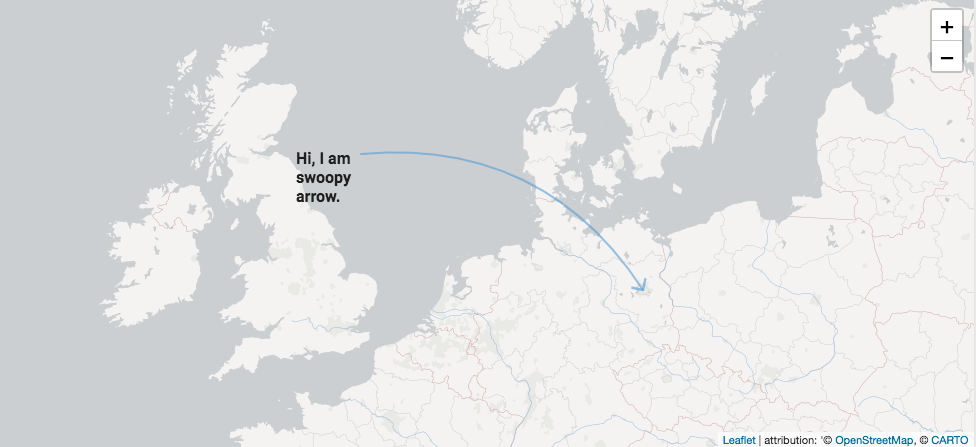
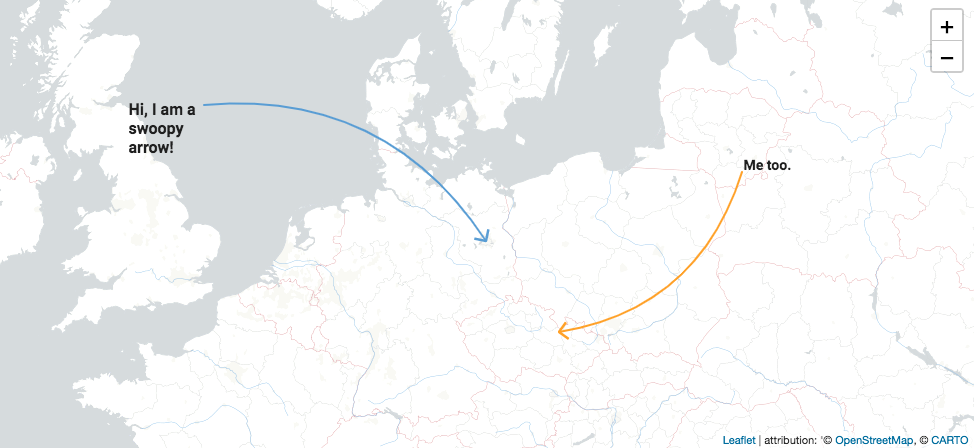
docs(example): add second swoopy

diff --git a/docs/index.html b/docs/index.html
@@ -171,6 +171,10 @@
     box-shadow: 0 2px 12px 2px rgba(0, 0, 0, .15);
   }
 
+  .leaflet-tile-container img {
+    filter: contrast(1.15);
+  }
+
   .swoopy-arrow {
     font-family: 'Roboto', sans-serif;
     font-weight: 700;
@@ -355,7 +359,7 @@ const swoopy = L.swoopyArrow([53.52, 13.4], [53.525, 14.41], {
     }).addTo(map);
 
     new L.SwoopyArrow([56, 1], [52.52, 13.4], {
-      text: 'Hi, I am swoopy arrow.',
+      text: 'Hi, I am a swoopy arrow!',
       fontSize: 16,
       color: '#64A7D9',
       textClassName: 'swoopy-arrow',
@@ -363,10 +367,25 @@ const swoopy = L.swoopyArrow([53.52, 13.4], [53.525, 14.41], {
       minZoom: 2,
       maxZoom: 10,
       factor: .6,
-      iconAnchor: [65, 5],
-      iconSize: [70, 16],
+      iconAnchor: [75, 5],
+      iconSize: [85, 16],
       weight: 2
     }).addTo(map);
+    
+    new L.SwoopyArrow([54.316365, 24.637743], [50.000512, 16.604392], {
+      text: 'Me too.',
+      fontSize: 14,
+      color: '#FFAB2E',
+      textClassName: 'swoopy-arrow',
+      opacity: 1,
+      minZoom: 2,
+      maxZoom: 10,
+      factor: .6,
+      iconAnchor: [-2, 15],
+      iconSize: [60, 16],
+      weight: 2
+    }).addTo(map);
+
 
     const activateBtn = document.querySelector('.activate-btn');
     activateBtn.addEventListener('click', () => {
